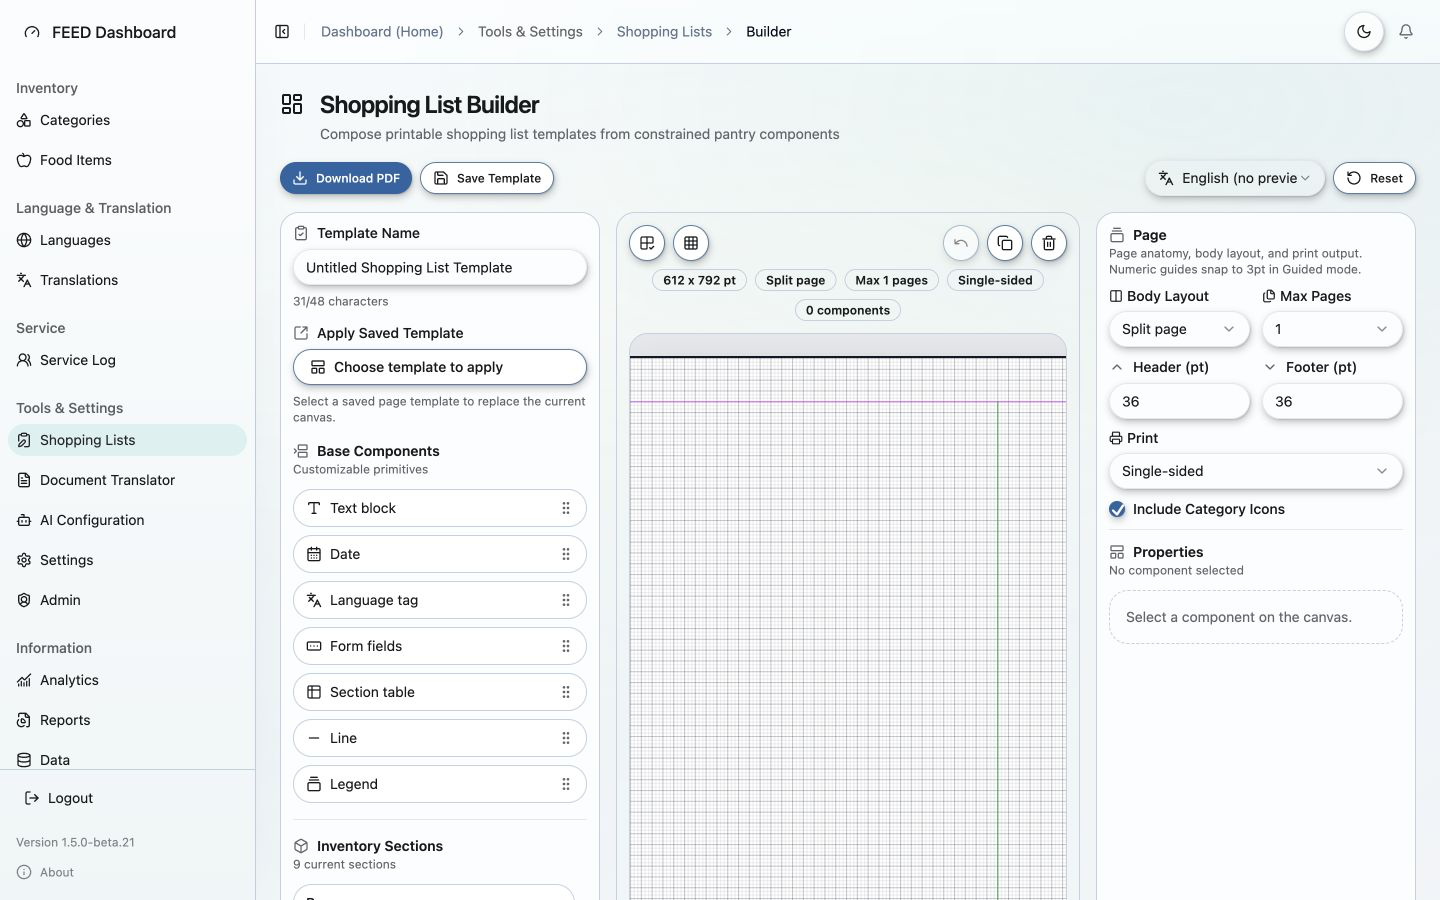
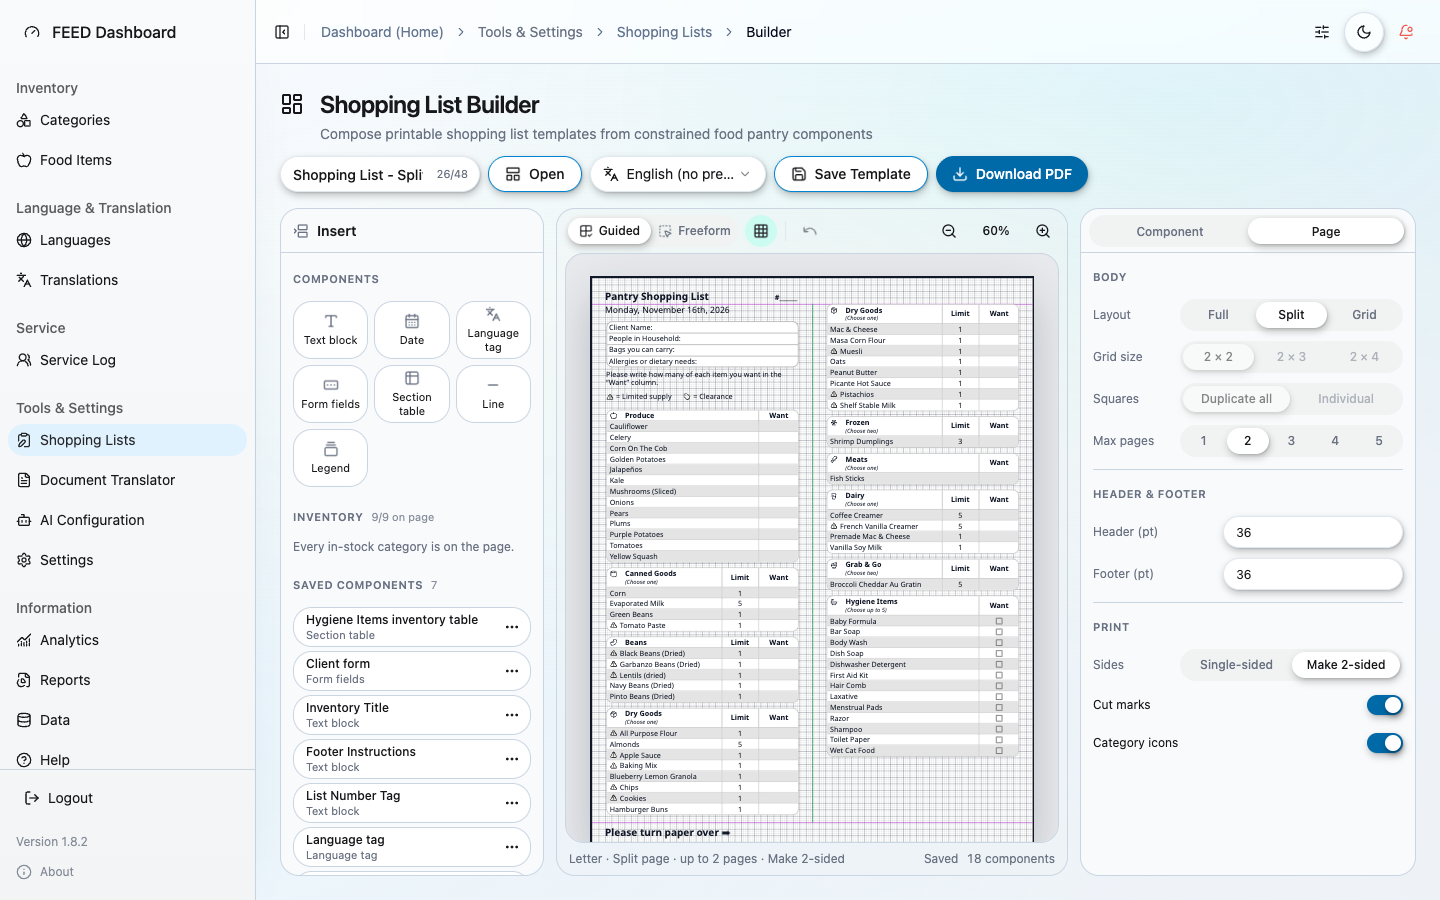
docs(help): rewrite Builder guide with paired screenshots; draft 1.9.0 release notes
- Rewrite the Shopping List Builder Help guide for the reorganised
  Builder and the Grid layout, in plain language.
- Capture light and dark screenshot pairs at 1440x900: the workspace, a
  blank-page start, a selected table, and a grid page; re-capture the
  Shopping Lists table with its Layout column.
- Explain the Layout column in the Shopping Lists guide and record the
  captures in screenshot-plan.md.
- Draft GitHub release notes with before/after screenshots and the
  162 -> 53 step comparison. Not published; versions are not bumped.

diff --git a/docs/user-guides/08-shopping-list-builder.md b/docs/user-guides/08-shopping-list-builder.md
@@ -12,47 +12,137 @@ If you only need to print an existing list, use [Shopping Lists](07-shopping-lis
 
 You build a reusable template, not a one-time list.
 
-![Shopping List Builder with component panel, page canvas, and page settings](/help-screenshots/shopping-list-builder-canvas.png)
+A template can include text, dates, form fields, lines, a legend, and inventory sections. Inventory sections fill in with current pantry items each time the list is printed.
 
-The template can include:
+## Find Your Way Around
 
-- Text.
-- Dates.
-- Form fields.
-- Inventory sections.
-- Saved components.
-- Headers and footers.
+The Builder has three parts.
+
+![Shopping List Builder with the Insert panel, the page, and the Page settings](/help-screenshots/shopping-list-builder-canvas.png)
+
+- **Insert** (left): everything you can add to the page.
+- **The page** (middle): what will print.
+- **Settings** (right): the **Page** tab changes the whole page. The **Component** tab changes the item you selected.
+
+The row above holds the template name, **Open**, the preview language, **Save Template**, and **Download PDF**.
+
+## Start A Template
+
+When the page is blank, the Builder offers your saved templates.
+
+![A blank page offering saved templates to start from](/help-screenshots/shopping-list-builder-start.png)
+
+1. Click a saved template to start from it, or begin adding items for a blank start.
+2. Type a name for the template at the top.
+3. Click **Save Template** when you are ready.
+
+A dot on **Save Template** means you have changes that are not saved yet.
+
+To open a different template later, click **Open**. **New blank template** is at the bottom of that menu.
+
+## Add Things To The Page
+
+1. Click an item in **Insert**. It appears on the page, already selected.
+2. Or drag it to the spot where you want it.
+
+When you add a text block, just start typing. The cursor is already in the text.
+
+To add every inventory section at once, click **Add all**.
+
+## Change An Item
+
+Click an item on the page. Its settings open in the **Component** tab.
+
+![An inventory table selected, with its settings on the right](/help-screenshots/shopping-list-builder-component.png)
+
+- Double-click an item to jump straight to its text.
+- Use the small bar above the selected item to copy or delete it.
+- Click an empty part of the page to return to the **Page** tab.
+
+### Make Every Table Match
+
+Set up one table the way you want it. Then click **Apply to all**.
+
+Every other table takes the same columns and style. Titles, rows, and limits do not change.
 
 ## Guided Mode And Freeform Mode
 
-Guided mode helps keep items aligned and prevents common layout problems.
+Guided mode lines items up for you and keeps them from overlapping. Start here.
 
-Freeform mode gives more placement freedom. Use it when Guided mode gets in the way of a specific layout need.
+Freeform mode lets you place items anywhere. Use it when Guided mode gets in the way of a specific layout.
 
-## How To Add Inventory To A Template
+## Choose A Page Layout
 
-1. Open Shopping List Builder.
-2. Choose an inventory section from the side panel.
-3. Add it to the page.
-4. Review how the rows fit.
-5. Save the template when the layout is ready.
+Open the **Page** tab and choose a **Layout**.
+
+- **Full** — one wide column.
+- **Split** — two columns side by side.
+- **Grid** — several small slips on one sheet.
+
+### Make Slips With A Grid
+
+Use Grid when you want small forms or tickets to cut apart.
+
+![A grid page with the same form repeated in each square](/help-screenshots/shopping-list-builder-grid.png)
+
+1. Choose **Grid**.
+2. Choose a **Grid size**: 2 × 2 makes four slips, 2 × 3 makes six, 2 × 4 makes eight.
+3. Choose how the **Squares** fill:
+   - **Duplicate all** — build one square. Every square repeats it.
+   - **Individual** — each square has its own content. Click a square, then add items to it.
+
+Things to know about Grid:
+
+- **A grid is always one page.** Choose **Make 2-sided** to print the same page on the back.
+- **Each square has a limit.** If something will not fit in its square, the Builder does not add it and tells you why. Remove something, shorten it, or choose a grid with larger squares.
+- **There is no header or footer.** Everything sits inside a square. Put a title inside the square if the slip needs one.
+- **Freeform stays inside the square.** You can place items anywhere within a square, but not outside it.
+
+## Cut Marks
+
+Split and Grid pages print dashed lines that show where to cut.
+
+To hide them, open the **Page** tab and turn off **Cut marks**.
+
+## See The Whole Page
+
+Use the zoom controls above the page.
+
+- Click the percentage to choose **Fit width**, **Fit whole page**, or **100%**.
+- Use the plus and minus buttons for small changes.
+
+## Keyboard Shortcuts
+
+Click an item on the page first.
+
+| Press | To |
+|---|---|
+| Delete | Remove the item |
+| Ctrl + D (⌘ D on a Mac) | Copy the item |
+| Ctrl + Z (⌘ Z on a Mac) | Undo the last change |
+| Esc | Deselect |
+| Arrow keys | Nudge the item |
 
 ## Why Inventory Sections Stay Connected
 
 Inventory sections use live pantry data.
 
-That means item names, limits, and stock status come from Inventory. This keeps printed lists accurate when the pantry changes.
+Item names, limits, and stock status come from Inventory. This keeps printed lists accurate when the pantry changes.
+
+If you change a limit in the Builder, FEED updates the food item or category too.
 
 ## Translation Settings
 
 Use Translation Settings when a printed list needs translated text, English text, or both.
 
-For many rows, showing the translated item with the English name can help staff and clients confirm they are talking about the same food.
+For many rows, showing the translated item with the English name helps staff and clients confirm they are talking about the same food.
+
+To check a language before printing, choose it in the preview language menu at the top.
 
 ## What To Check Before Printing
 
-- The right template is loaded.
-- Inventory sections fit on the page.
+- The right template is open.
+- Everything fits on the page. A red note under the page tells you if something does not.
 - Limits look correct.
 - Translation settings match the client need.
-- The PDF preview looks like the intended printout.
+- The downloaded PDF looks like the page in the Builder.

diff --git a/docs/releases/v1.9.0-github-release.md b/docs/releases/v1.9.0-github-release.md
@@ -1,0 +1,121 @@
+# FEED 1.9.0 — A faster Shopping List Builder, and Grid pages
+
+> **Draft for the GitHub release.** Not published. The version number is
+> proposed: the three version sources (`packages/frontend/package.json`,
+> `packages/backend/package.json`, the Docker `VERSION`) still read 1.8.2 and
+> must be bumped together before this ships. Image links point at `main` and
+> resolve once these commits are pushed.
+
+The Shopping List Builder has been reorganised so the same templates take far
+fewer steps to build, and it can now lay out a page as a grid of slips.
+
+Nothing about saved templates changes. Every template made in an earlier
+version opens and prints as before, with one visible difference noted under
+[Upgrade notes](#upgrade-notes).
+
+## Before and after
+
+The same template, with the same table selected.
+
+| Before (1.8.2) | After (1.9.0) |
+|---|---|
+| ![Builder in 1.8.2: page scrolled, table properties split across Layout and Content tabs](https://raw.githubusercontent.com/MattGeiger/williamtemple-feed/main/docs/screenshots/releases/1.9.0/builder-before-dark.png) | ![Builder in 1.9.0: whole workspace visible, table settings in one panel](https://raw.githubusercontent.com/MattGeiger/williamtemple-feed/main/docs/screenshots/releases/1.9.0/builder-after-dark.png) |
+| ![Builder in 1.8.2, light theme](https://raw.githubusercontent.com/MattGeiger/williamtemple-feed/main/docs/screenshots/releases/1.9.0/builder-before-light.png) | ![Builder in 1.9.0, light theme](https://raw.githubusercontent.com/MattGeiger/williamtemple-feed/main/docs/screenshots/releases/1.9.0/builder-after-light.png) |
+
+In 1.8.2 the page scrolled, so the panels moved out of view; a table's
+settings were split across two tabs and opened on position fields; and the
+zoom control sat at the bottom of the left panel. In 1.9.0 the workspace fits
+the window, a table's settings are one scrolling panel in order of use, and
+zoom sits on the canvas.
+
+## Fewer steps for the same result
+
+The benchmark is one of the templates staff already use, "Pantry Inventory":
+a title, a language tag, a date, ten inventory tables sharing one style, and a
+legend. Rebuilt from a blank page, counting each click, drag, or
+click-and-type as one action:
+
+| Step | 1.8.2 | 1.9.0 |
+|---|---:|---:|
+| Name the template, set max pages and header height | 6 | 3 |
+| Add the inventory sections | 10 | **1** |
+| Give every table the same style | 80 | **9** |
+| Set five tables to Fixed | 20 | 10 |
+| Title: text, header, bold, centred, 14 pt, not translated, full width | 21 | 12 |
+| Language tag | 6 | 5 |
+| Date | 12 | 9 |
+| Legend in the footer, full width | 6 | 3 |
+| Save | 1 | 1 |
+| **Total** | **162** | **53** |
+
+**About two thirds fewer actions.** Both columns are counted from the controls
+each version requires. Every kind of step in the 1.9.0 column was also
+performed in the running app, though not timed with staff.
+
+Where the savings come from:
+
+- **Add all** places every inventory section in one click (10 → 1).
+- **Apply to all** copies one table's columns and style to every other table
+  (80 → 9).
+- **One-click choices** replace two-click dropdowns for bold, alignment, page
+  region, table behaviour, body layout, max pages, and print sides.
+- **Add, then type.** A new text block opens with the cursor in its text.
+- **Keyboard shortcuts**: Delete, Ctrl/⌘ D to duplicate, Ctrl/⌘ Z to undo, Esc
+  to deselect, arrow keys to nudge.
+
+## New: Grid pages
+
+A third page layout beside Full and Split. A grid divides the page into
+2 × 2, 2 × 3, or 2 × 4 squares, so one Letter sheet prints 4, 6, or 8 slips.
+
+![A 2 × 3 grid page repeating one form in every square](https://raw.githubusercontent.com/MattGeiger/williamtemple-feed/main/docs/screenshots/releases/1.9.0/builder-grid-light.png)
+
+- **Duplicate all** — build one square and every square repeats it.
+- **Individual** — each square holds its own content.
+- A grid is always one page. **Make 2-sided** prints the same page on the back.
+- A square cannot overflow. A change that would not fit is refused, with a
+  message naming the component.
+- Guided mode stacks items in a square; Freeform places them anywhere inside
+  it.
+
+## Also new
+
+- **Cut marks.** Split and Grid pages print dashed cut lines. Turn them off
+  under Page → Print.
+- **Save state.** Save Template shows a dot when there are unsaved changes.
+- **A blank page offers your saved templates**, one click to open.
+- **Zoom on the canvas** with Fit width, Fit whole page, and 100%. The page
+  opens fitted to the window instead of cropped.
+- **Layout column** on the Shopping Lists page.
+- **Help** has a rewritten Shopping List Builder guide with new screenshots in
+  light and dark.
+
+## Fixed
+
+- The Shopping Lists page showed "Last Updated" as a raw timestamp
+  (`2026-06-30T17:16:27.677Z`). It now reads `6/30/2026`.
+- Builder palette buttons had no accessible name.
+- Deleting a component selected a different one, so a second Delete removed
+  something the user had not chosen. The selection now clears.
+
+## Upgrade notes
+
+- **Existing Split templates gain a cut line.** Cut marks are on by default,
+  so a Split page now prints a dashed line down the middle of the body. Turn
+  off **Cut marks** on a template to restore the old output.
+- No database migration. Template data gains optional fields only.
+- Grid templates saved in 1.9.0 will not render as grids on an older version.
+
+## Verification
+
+- 605 frontend tests and 151 backend shopping-list tests pass, including 31
+  new tests that pin the grid geometry identically on both sides.
+- Templates built in the new Builder were exported to PDF, rendered to images,
+  and compared with the canvas for Split, both Grid modes, cut marks, and
+  two-sided output.
+- Checked at 1920 × 1080 and 1280 × 720, in light and dark.
+- Not yet done: sessions with Social Services staff. The step counts above are
+  measured from the interface, not observed in use.
+
+Design records: [`docs/shopping-lists/builder-ux-rework.md`](../shopping-lists/builder-ux-rework.md),
+[`docs/shopping-lists/grid-page-layout.md`](../shopping-lists/grid-page-layout.md).

diff --git a/docs/user-guides/screenshot-plan.md b/docs/user-guides/screenshot-plan.md
@@ -110,6 +110,29 @@ The detected-source reconciliation review remains uncaptured. The synthetic
 fixture reaches source confirmation, but reconciliation totals appear only
 after starting an import; the capture session stopped before that write.
 
+## Builder Rework Captures (2026-11-16)
+
+The Builder was reorganised and gained the Grid layout, so its one existing
+screenshot showed an interface that no longer exists. Captured at 1440 × 900
+from the development database (inventory and template names only; no personal
+information), light and dark for each.
+
+| Guide | Section | Filename | What it shows | Status |
+|---|---|---|---|---|
+| Shopping Lists | When To Use This Page | `shopping-lists-table` | Saved templates with the new Layout column | Re-captured |
+| Shopping List Builder | Find Your Way Around | `shopping-list-builder-canvas` | Insert panel, page, and Page settings with a template open | Re-captured |
+| Shopping List Builder | Start A Template | `shopping-list-builder-start` | Blank page offering saved templates | Added |
+| Shopping List Builder | Change An Item | `shopping-list-builder-component` | An inventory table selected with its settings | Added |
+| Shopping List Builder | Make Slips With A Grid | `shopping-list-builder-grid` | 2 × 3 grid, Duplicate all, with the Page settings | Added |
+
+These were captured with a script driving headless Chromium rather than by
+hand, so both themes come from the same state. The theme was set by emulating
+the device colour scheme and stamping the matching class.
+
+Not captured: the overflow error message, the locked Header/Footer tooltip,
+and the row and Export Settings menus on Shopping Lists (unchanged, existing
+captures still match except for the new column behind the menu).
+
 ## Planned Screenshots
 
 | Priority | Guide | Section | User question | Proposed screenshot | Notes | Status |
@@ -128,7 +151,7 @@ after starting an import; the capture session stopped before that write.
 | High | Document Translator | How To Translate A Document | How do I start a translation? | Upload dialog and document table | Captured authenticated dev data | Added |
 | High | Shopping Lists | How To Export A List | How do I download a PDF? | Shopping Lists table row menu | Captured authenticated dev data with Download PDF and Translate & Download PDF visible | Added |
 | Medium | Shopping Lists | Export Settings | How are filenames controlled? | Export Settings dialog | Captured authenticated dev data with filename preview | Added |
-| High | Shopping List Builder | What You Build | What am I editing? | Builder canvas with side panels | Captured authenticated dev data | Added |
+| High | Shopping List Builder | Find Your Way Around | What am I editing? | Builder canvas with side panels | Re-captured 2026-11-16 after the Builder rework | Added |
 | High | Shopping List Builder | Translation Settings | How do I show English and translation? | Translation Settings dialog | Show row settings when possible | Planned |
 | Medium | AI Configuration | What It Controls | Where are provider settings? | AI Configuration list | Captured authenticated dev data; no API key values visible | Added |
 | High | Data Management | Add Data | Where do I import a CSV? | Unified Add Data drop area and detected-source review | Drop area captured; review stopped before an import write | Partial |

diff --git a/CHANGELOG.md b/CHANGELOG.md
@@ -74,6 +74,16 @@ All notable changes to FEED are documented here. This project adheres to
 - `components/ui/toggle-group.tsx` — the Shadcn ToggleGroup over the Radix
   primitive already shipped in the `radix-ui` package. No new dependency.
 
+### Documentation
+
+- **Help: Shopping List Builder guide rewritten** for the reorganised Builder
+  and the Grid layout, in plain language, with four new or re-captured
+  screenshots in paired light and dark. The Shopping Lists guide explains the
+  new Layout column and its screenshot is re-captured.
+- **GitHub release notes drafted** at `docs/releases/v1.9.0-github-release.md`
+  with before/after screenshots and the step-count comparison. Not published;
+  version sources still read 1.8.2.
+
 ### Validation
 
 - Clicked through at 1920×1080 and 1280×720 (sidebar open and collapsed), dark

diff --git a/docs/user-guides/07-shopping-lists.md b/docs/user-guides/07-shopping-lists.md
@@ -16,6 +16,14 @@ Use Shopping Lists when you already have a saved template and need to print or d
 
 Use the Builder when you need to design or change a template.
 
+## What The Table Shows
+
+Each row is one saved template.
+
+- **Details** lists what the template contains.
+- **Layout** shows how the page is arranged: Full page, Split page, or a Grid with its size.
+- **Last Updated** shows when it was last saved.
+
 ## How To Export A List
 
 Use the row action menu when a template is ready to export.
